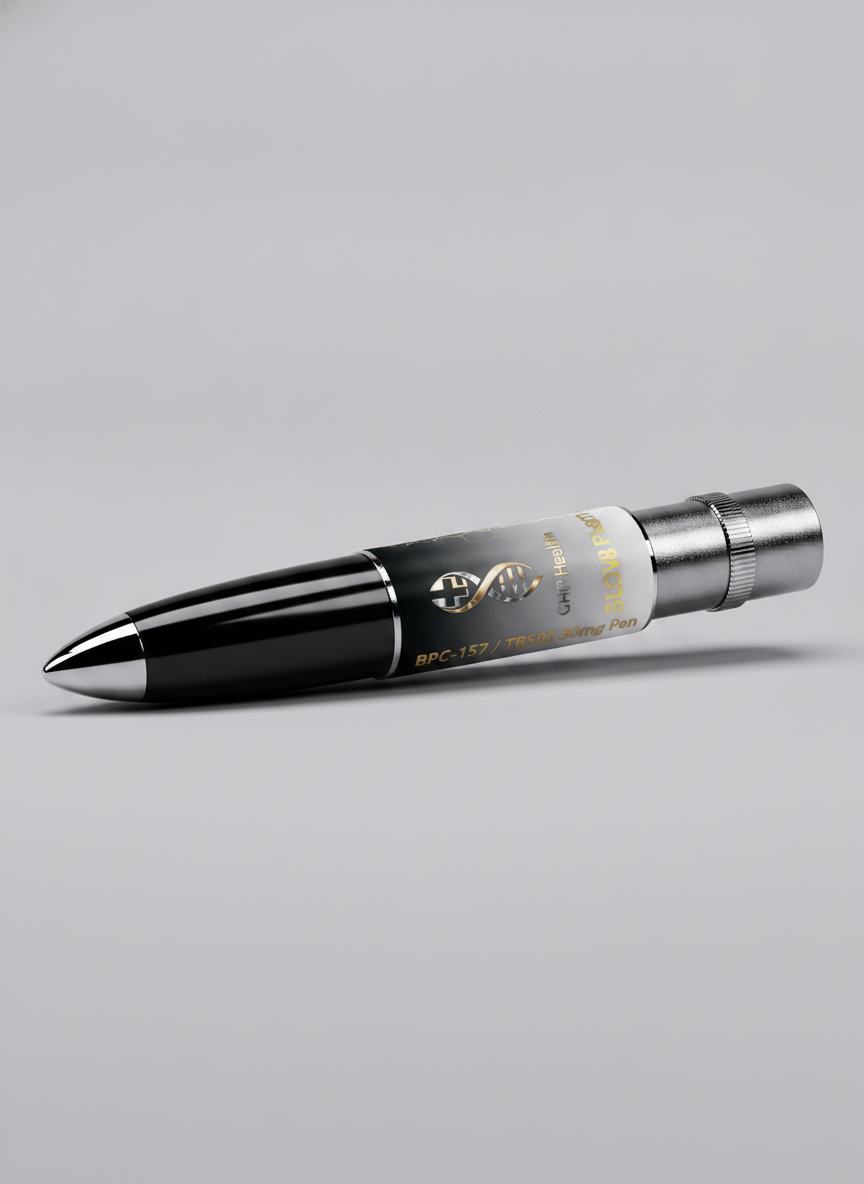
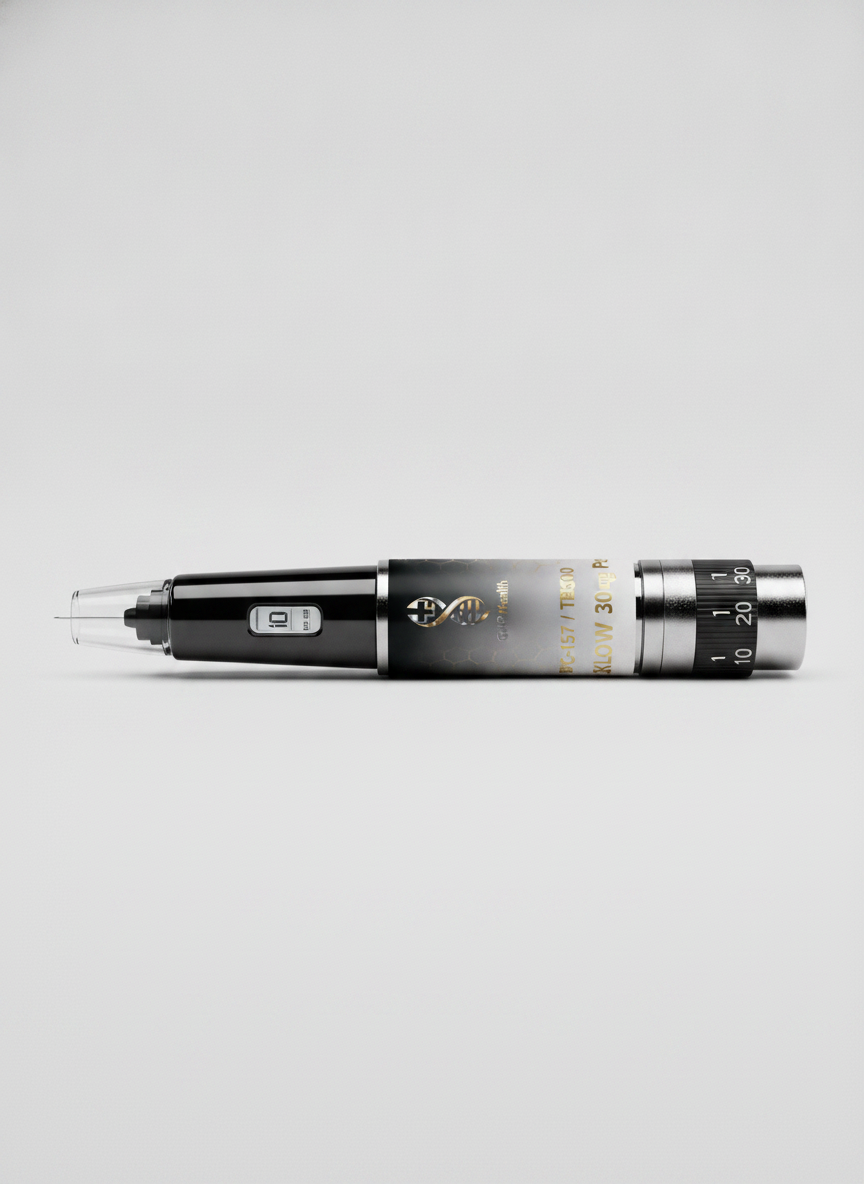
auto-commit for f99d9ada-0c7f-4ebc-93fb-b800ce36d618

diff --git a/backend/generate_pen_images.py b/backend/generate_pen_images.py
@@ -29,17 +29,19 @@ GEMINI_MODEL = "gemini-2.5-flash-image"
 def build_pen_prompt(product_name: str) -> str:
     return (
         "Using the supplied product photo only as the BRAND and LABEL design reference, create a "
-        "new product photograph of a premium pharmaceutical DOSING PEN INJECTOR - a sleek "
-        "cylindrical injection pen, similar in shape and proportions to a modern insulin pen "
-        "(approximately 15cm long, with a tapered tip cap on one side and a dose dial/twist "
-        "mechanism on the other). The pen body must have a glossy black/dark-silver finish. "
-        "Wrap a label around the centre of the pen that mirrors the reference design: hexagon "
+        "new product photograph of a premium pharmaceutical INSULIN PEN INJECTOR (medical injection "
+        "pen). It must clearly look like a modern insulin pen: a long slim cylindrical body roughly "
+        "15-17 cm long, glossy black/dark-silver finish, with a removable clear plastic cap at one "
+        "end covering a small fine needle, a small clear dose-display window near the cap end "
+        "showing a small number, and a large numbered twist dose-dial at the opposite back end. "
+        "Do NOT make it look like a fountain pen, ballpoint pen, ink pen or writing instrument. "
+        "Wrap a label around the centre body of the pen that mirrors the reference design: hexagon "
         "pattern, gold/silver DNA-helix logo, 'GHP Health' wordmark, 'For Research Purposes Only' "
         "vertical text on one edge, premium black-to-silver gradient. "
         f"The large gold product name printed across the lower section of the wrap-around label "
-        f"must read: \"{product_name}\". Show the pen horizontally or at a slight angle, centred "
-        "on a clean neutral light-grey studio background, professional product photography, "
-        "soft lighting, square aspect ratio, no extra text or watermarks."
+        f"must read: \"{product_name}\". Show the insulin pen horizontally or at a slight angle on "
+        "a clean neutral light-grey studio background, professional product photography, soft "
+        "lighting, square aspect ratio, no extra text or watermarks."
     )
 
 
